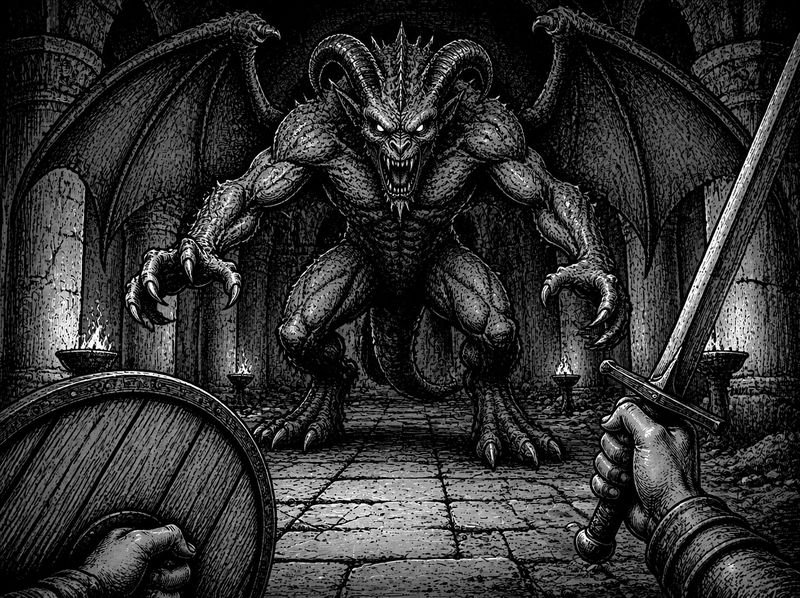
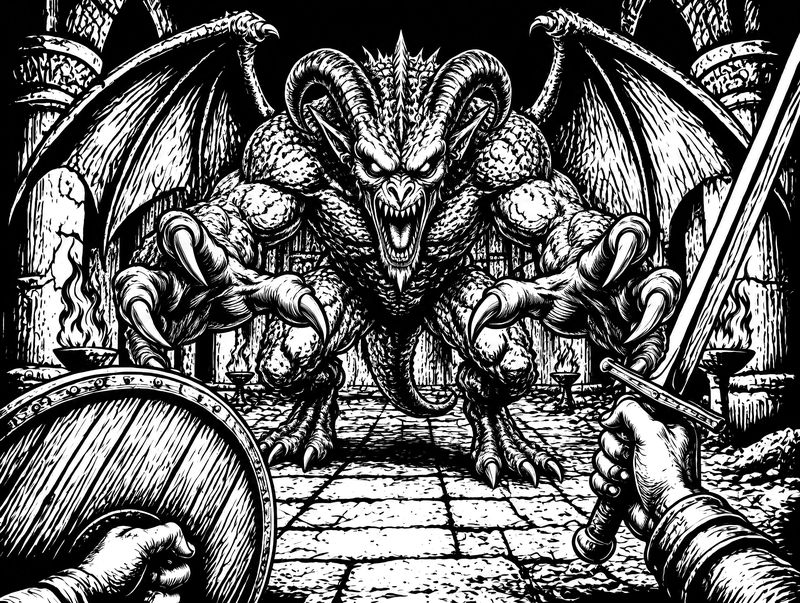
Illustrations : trait plus épais et ambiance plus sombre
Squelette (sang sur l'épée), loup-garou qui bondit, démon penché vers le
héros, redessinés dans Canva avec un trait d'encre plus marqué, toujours
en noir et blanc. Mêmes noms de fichiers, 800 pixels de large.

Claude-Session: https://claude.ai/code/session_01CaCeuzhhaRdgMD9bPTdbF9

diff --git a/docs/decisions.md b/docs/decisions.md
@@ -4,6 +4,7 @@ Une ligne par décision prise par Simon, la plus récente en haut. Ne pas reveni
 
 | Date | Décision |
 |---|---|
+| 24/11/2026 | Illustrations des monstres : toujours monochromes, mais trait plus épais et plus marqué, ambiance plus sombre et monstres plus féroces. |
 | 24/11/2026 | Après chaque combat, demander une note de 1 à 5 et un mot facultatif. Les notes vont dans l'onglet Avis existant, dans le commentaire (option B, sans modifier le script Google). Les testeurs n'ont plus rien à copier : les combats partent automatiquement. |
 | 21/11/2026 | Les textes décrivent ce que montrent les illustrations : pas de trône pour le démon ; un seul squelette visible, les autres de la bande dans l'ombre. |
 | 21/11/2026 | Sons enregistrés de Simon (libres de droits) pour le cri du monstre touché, le cri de douleur du héros et le cri de victoire du monstre ; une hauteur par monstre ; les cris de rage sont gardés, après le cri enregistré. |

diff --git a/docs/etat-du-projet.md b/docs/etat-du-projet.md
@@ -68,6 +68,8 @@ Mis à jour le 24 novembre 2026.
 
 - Avis à chaud (24 novembre) : à la fin de chaque combat, « Ce combat t'a plu ? » (de 1 à 5, ou Passer), puis un mot facultatif. La note part dans l'onglet Avis de la feuille, sans changer le script Google : le commentaire commence par « Note 4/5 · Système D · squelette · victoire ». L'écran Résultats précise que chaque combat est envoyé automatiquement (plus rien à copier).
 
+- Illustrations retravaillées (24 novembre) : squelette, loup-garou et démon redessinés avec un trait d'encre plus épais et une ambiance plus sombre (sang sur l'épée du squelette, loup-garou qui bondit, démon penché vers le héros). Mêmes noms de fichiers dans `essais/images/`. Originaux dans Canva : MAHb3W4QQjo (squelette), MAHb3XNHysc (loup-garou), MAHb3atWcZ0 (démon).
+
 ## En cours
 
 - Séances de test des systèmes de combat avec plusieurs joueurs.
